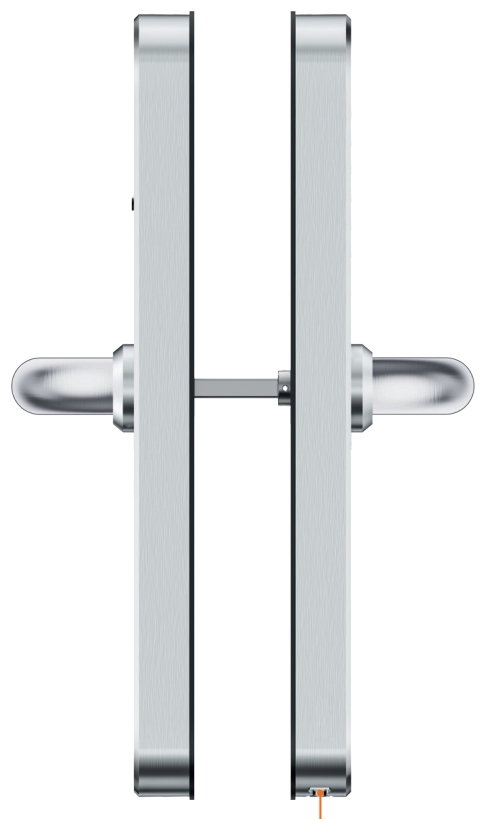
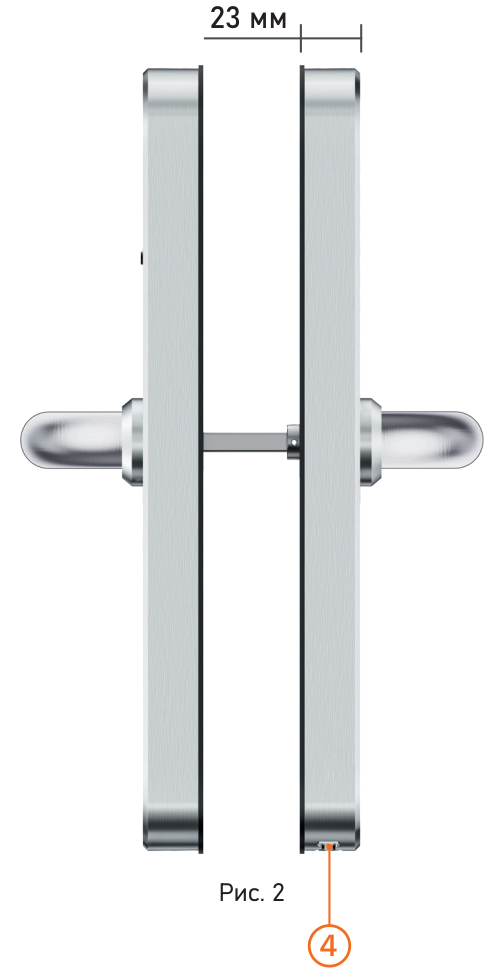
Fix cropped callout 4 on figure 2
Callout "4" sits below the "Рис. 2" caption in the source, so cropping
above the caption left a dangling leader stub. Extend the crop to include
the full callout (the caption gets baked into the image) and drop the now
duplicate HTML figcaption for that figure.

diff --git a/index.html b/index.html
@@ -103,7 +103,7 @@
       <h1 class="doc-title">Описание</h1>
       <p class="doc-subtitle">Руководство пользователя · Электронные замки Novilock™ Classic Slim</p>
       <figure class='figure'><img src='images/fig_005_1.png' alt='Рис. 1' loading='lazy'><figcaption>Рис. 1</figcaption></figure>
-      <figure class='figure'><img src='images/fig_005_2.png' alt='Рис. 2' loading='lazy'><figcaption>Рис. 2</figcaption></figure>
+      <figure class='figure'><img src='images/fig_005_2.png' alt='Рис. 2' loading='lazy'></figure>
       <ol class="num-list"><li>Передняя панель</li><li>Задняя панель</li><li>Ручка</li><li>Цилиндр механического аварийного ключа</li><li>Считыватель RF карт</li><li>Батарейный отсек</li><li>Управление ригелем (Ручка)</li><li>Переключатель блокировки двери</li></ol>
       <div class="callout"><h4>Обратите внимание</h4><ol class="num-list"><li>Механические ключи храните в доступном месте</li><li>Заменяйте источники питания при достижении низкой мощности сигнализации.</li><li>Внимательно изучите данное Руководство перед установ кой и сохраните его для дальнейшего использования.</li></ol></div>
       <p>Электронный замок для отелей Classic Slim производства компании Novilock™ создан чтобы обеспечить вашему объекту наивысший уровень безопасности и одновременно с этим – более комфортное и удобное открывание вашей двери. Для доступа на объект вы можете выбрать один из нескольких способов открывания:</p>